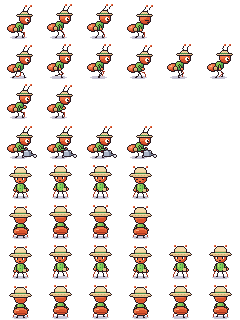
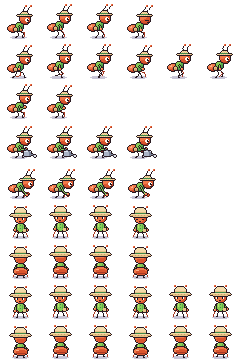
feat(villagers): give the east's villagers midday and dusk routines
- Midday: Nenek Nora still weaves on her deck, the Gardener tends the
  rows behind his glasshouse, and Leo stands on the hilltop by his hut
  looking out over the valley.
- Dusk: Nora sits on her steps, the Gardener rests on the orchard
  bench, and Leo watches the far road through the telescope up on his
  lookout deck.
- New tend and peer poses; Leo can look too.

diff --git a/game/ArtSource/chars.js b/game/ArtSource/chars.js
@@ -409,8 +409,8 @@
   };
 
   /* ---------------- poses ---------------- */
-  const POSES = { idle: 4, walk: 6, talk: 2, give: 2, receive: 2, carry: 2, carryWalk: 6, inspect: 2, wave: 2, sit: 2, moved: 2, run: 6, brew: 4, hammer: 4, look: 4, lift: 2, polish: 4, sweep: 4, weave: 4, water: 4 };
-  const FPS = { idle: 4, walk: 10, run: 12, carryWalk: 9, talk: 6, give: 3, receive: 3, carry: 4, inspect: 3, wave: 5, sit: 2, moved: 2, brew: 3, hammer: 6, look: 2, lift: 2, polish: 4, sweep: 4, weave: 3, water: 4 };
+  const POSES = { idle: 4, walk: 6, talk: 2, give: 2, receive: 2, carry: 2, carryWalk: 6, inspect: 2, wave: 2, sit: 2, moved: 2, run: 6, brew: 4, hammer: 4, look: 4, lift: 2, polish: 4, sweep: 4, weave: 4, water: 4, tend: 4, peer: 2 };
+  const FPS = { idle: 4, walk: 10, run: 12, carryWalk: 9, talk: 6, give: 3, receive: 3, carry: 4, inspect: 3, wave: 5, sit: 2, moved: 2, brew: 3, hammer: 6, look: 2, lift: 2, polish: 4, sweep: 4, weave: 3, water: 4, tend: 3, peer: 1 };
   // Those in TURN also face the camera (pose_front) and turn away from it (pose_back) as they stand, walk, run and carry.
   const TURNS = ['idle', 'walk', 'run', 'carry', 'carryWalk'], VIEWS = ['front', 'back'];
   for (const p of TURNS) for (const v of VIEWS) { POSES[`${p}_${v}`] = POSES[p]; FPS[`${p}_${v}`] = FPS[p]; }
@@ -426,13 +426,14 @@
     if (id === 'marlow') s.push('wave');
     if (id === 'leo') s.push('run');
     if (id === 'mender') s.push('hammer');
-    if (id === 'bram' || id === 'sam') s.push('look');
+    if (id === 'bram' || id === 'sam' || id === 'leo') s.push('look');
     if (CAST[id].load) s.push('carry', 'carryWalk', 'lift');
     if (CAST[id].polish) s.push('polish');
     if (id === 'sam' || id === 'baker') s.push('sweep');
     if (id === 'pip') s.push('run');
     if (id === 'nora') s.push('weave');
-    if (id === 'gardener') s.push('water');
+    if (id === 'gardener') s.push('water', 'tend');
+    if (id === 'leo') s.push('peer');
     if (TURN[id]) s.push(...TURNS.filter(p => s.includes(p)).flatMap(p => VIEWS.map(v => `${p}_${v}`)));
     HAS[id] = s;
   }
@@ -567,6 +568,14 @@
       case 'water':   // the watering can held out low by its handle, tipped over the flowers, the water falling
         armN = [[2, 3], [6, 3]]; armF = [[2, 3], [4, 4]];
         r.hy += 1; r.can = f;
+        break;
+      case 'tend':   // bent over the rows, the hands working the soil round a plant in turn
+        r.dx = 1; r.hx += 2; r.hy += 4;
+        armN = [[3, 5], [[6, 9], [7, 8], [6, 9], [5, 8]][f]]; armF = [[4, 5], [[9, 8], [9, 9], [8, 8], [9, 9]][f]];
+        break;
+      case 'peer':   // an eye to the telescope's eyepiece, a hand steadying its tube
+        r.hx += 1; r.eye = f ? 'closed' : 'squint';
+        armN = [[3, 0], [7, -3]]; armF = [[2, 2], [5, 1]];
         break;
       case 'polish':   // rubbing what they hold (Helen's cup, Bram's whistle) with a cloth, round and round
         armF = [[3, 3], [7, 3]]; armN = [[2, 3], [[4, 2], [6, 2], [6, 4], [4, 4]][f]];

diff --git a/game/Assets/Scripts/Core/Places.cs b/game/Assets/Scripts/Core/Places.cs
@@ -205,11 +205,23 @@ namespace Shop
                 People = new[]
                 {
                     // Morning: Nenek Nora weaves at the loom out on her deck, the Gardener waters the chamomile rows, and Leo
-                    // runs laps of the lane.
+                    // runs laps of the lane. Midday: Nora still weaves, the Gardener tends the rows behind his glasshouse,
+                    // Leo looks out from his lookout. Dusk: Nora sits on her steps, the Gardener rests on the orchard bench,
+                    // Leo watches the far road through the telescope.
                     new Person
                     {
                         Id = "nora", At = V(260, 401), Floor = 16, Label = "Nenek Nora", Spot = V(0, 45), Pose = "weave", Facing = 1, Phases = new[] { Phase.Morning },
                         Line = "Sit a while if you like, child. The loom goes at its own pace, and so do I.",
+                    },
+                    new Person
+                    {
+                        Id = "nora", At = V(260, 401), Floor = 16, Label = "Nenek Nora", Spot = V(0, 45), Pose = "weave", Facing = 1, Phases = new[] { Phase.Midday },
+                        Line = "My mother taught me this pattern, and her mother before her. The thread remembers what we forget.",
+                    },
+                    new Person
+                    {
+                        Id = "nora", At = V(323, 422), Seat = 8, Label = "Nenek Nora", Spot = V(-23, 24), Pose = "sit", Facing = 1, Phases = new[] { Phase.Dusk },
+                        Line = "Evenings are the best part. The river talks, and I listen. Sit, if your legs are tired.",
                     },
                     new Person
                     {
@@ -224,6 +236,16 @@ namespace Shop
                     },
                     new Person
                     {
+                        Id = "gardener", At = V(790, 604), Label = "Gardener", Spot = V(18, 0), Pose = "tend", Facing = -1, Phases = new[] { Phase.Midday },
+                        Line = "Tomatoes under glass, cabbages out here. Everything mends at its own pace. People too.",
+                    },
+                    new Person
+                    {
+                        Id = "gardener", At = V(513, 447), Seat = 8, Label = "Gardener", Spot = V(36, 8), Pose = "sit", Facing = 1, Phases = new[] { Phase.Dusk },
+                        Line = "The watering's done. Now I sit, and the orchard grows without my help.",
+                    },
+                    new Person
+                    {
                         Id = "leo", Label = "Leo", Spot = V(0, 12), Phases = new[] { Phase.Morning },
                         Round = new[]
                         {
@@ -231,6 +253,16 @@ namespace Shop
                             new Stop { At = V(900, 482), Facing = -1, Wait = 2f, Run = true },
                         },
                         Line = "Lap nine! Still the fastest legs in Bellwood. Ask anyone. Well, anyone old enough to remember.",
+                    },
+                    new Person
+                    {
+                        Id = "leo", At = V(856, 236), Label = "Leo", Spot = V(-20, 4), Pose = "look", Facing = -1, Phases = new[] { Phase.Midday },
+                        Line = "Up here I can see every road in the valley. Every road a runner could take.",
+                    },
+                    new Person
+                    {
+                        Id = "leo", At = V(882, 157), Floor = 30, Label = "Leo", Spot = V(-4, 55), Pose = "peer", Facing = 1, Phases = new[] { Phase.Dusk },
+                        Line = "Sun's going. I watch the far road till the lamps come on. Old habit. Don't ask.",
                     },
                     // Midday: Pip on his break at the playground, dashing between the slide and the swing.
                     new Person
